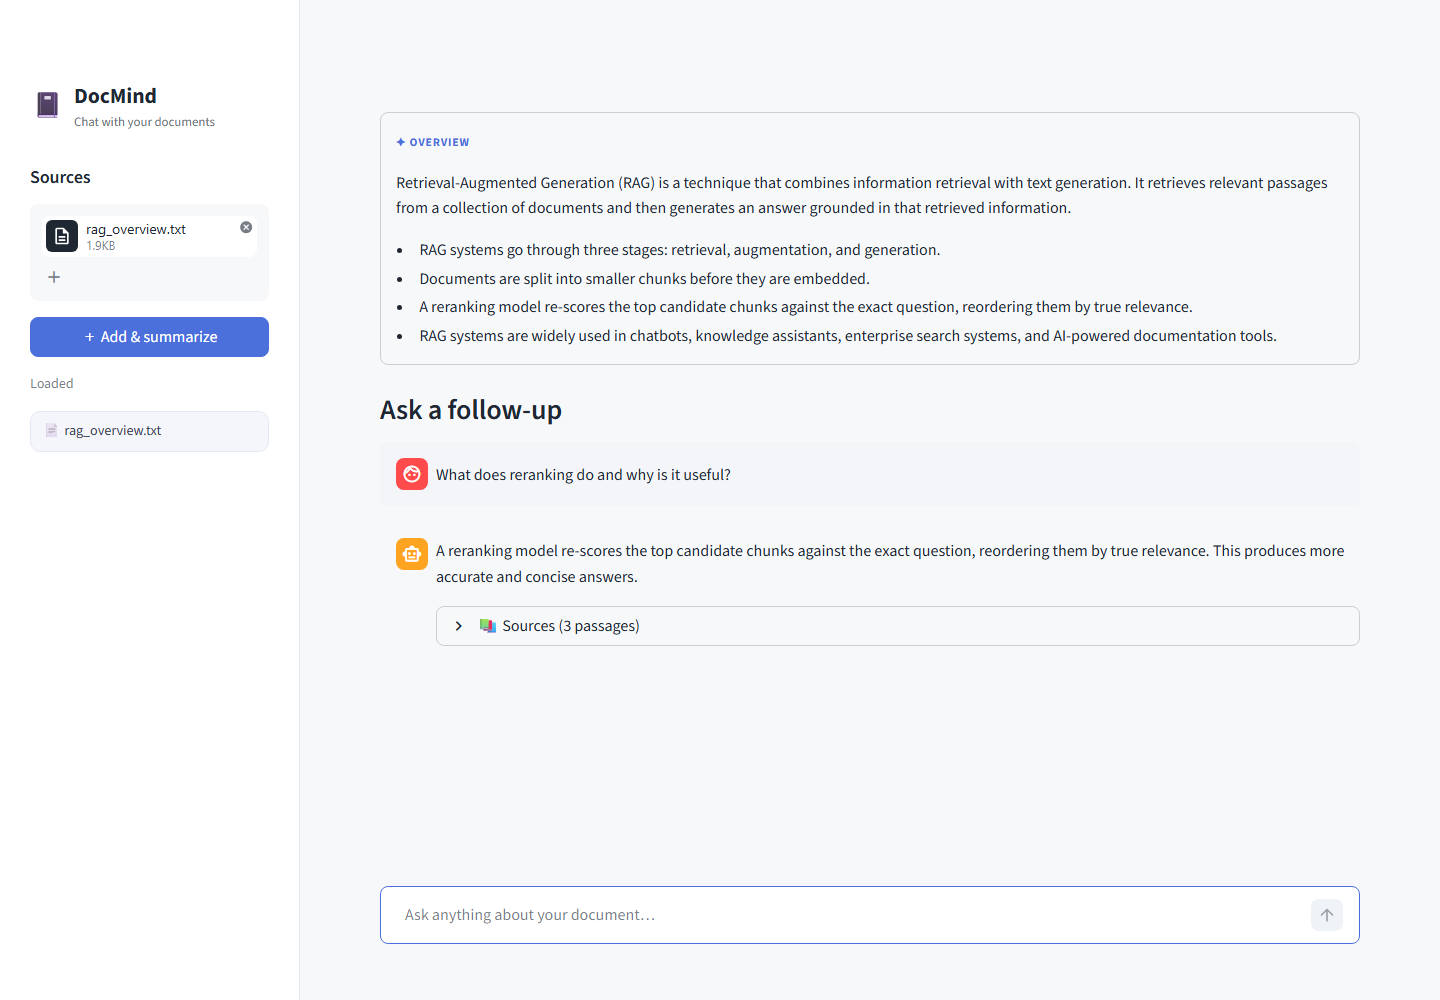
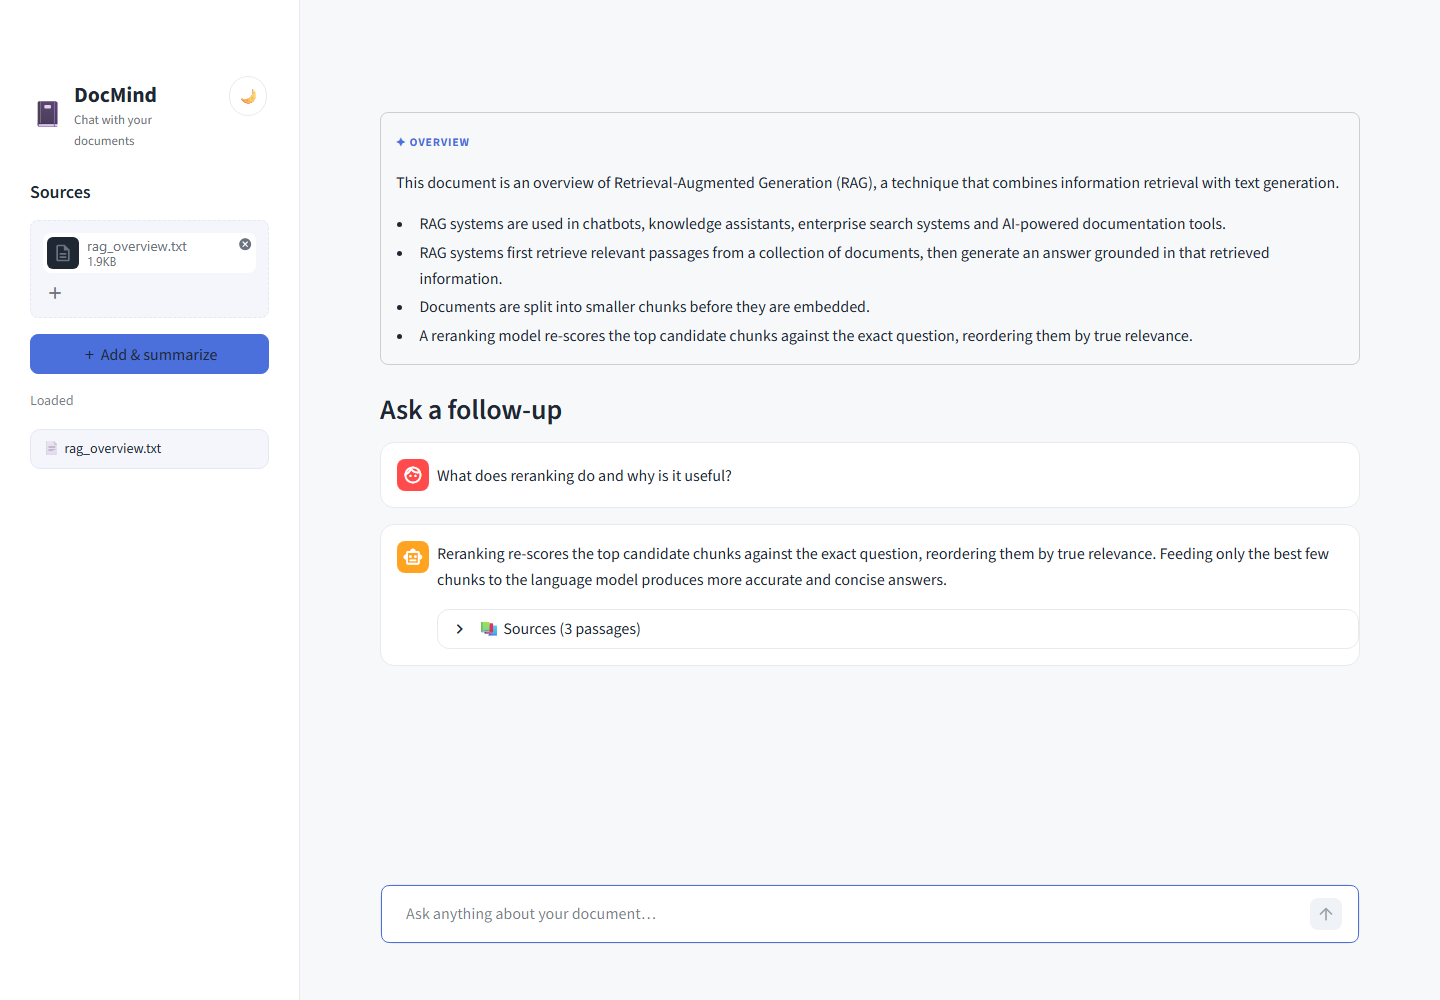
Week 7: add minimalist light/dark mode toggle

diff --git a/week7_SambhavaJain/app.py b/week7_SambhavaJain/app.py
@@ -23,53 +23,93 @@ st.set_page_config(page_title="DocMind — Document Q&A", page_icon="📓", layo
 
 # --- styling -----------------------------------------------------------------
 
-CSS = """
+# Two palettes, swapped at runtime by the theme toggle. Everything downstream
+# reads from these so light/dark stay in sync from one place.
+LIGHT = {
+    "bg": "#F7F8FA", "surface": "#FFFFFF", "border": "#E8EAED",
+    "text": "#1F2733", "muted": "#6B7280", "accent": "#4B6FDB",
+    "chip_bg": "#F4F6FB", "chip_border": "#E4E8F2",
+}
+DARK = {
+    "bg": "#0F1419", "surface": "#171C24", "border": "#2A313C",
+    "text": "#E6E9EE", "muted": "#9AA4B2", "accent": "#7C97F7",
+    "chip_bg": "#1F2630", "chip_border": "#2A313C",
+}
+
+
+def build_css(dark: bool) -> str:
+    p = DARK if dark else LIGHT
+    return f"""
 <style>
 /* hide default Streamlit chrome */
-#MainMenu, footer, header[data-testid="stHeader"] {visibility: hidden;}
+#MainMenu, footer, header[data-testid="stHeader"] {{visibility: hidden;}}
 
-/* calm, paper-like canvas */
-.stApp {background: #F7F8FA;}
-section[data-testid="stSidebar"] {background: #FFFFFF; border-right: 1px solid #E8EAED;}
+/* canvas + rails */
+.stApp {{background: {p['bg']};}}
+section[data-testid="stSidebar"] {{background: {p['surface']}; border-right: 1px solid {p['border']};}}
 
 /* typography */
-html, body, [class*="css"] {font-family: "Segoe UI", "Google Sans", system-ui, sans-serif;}
-h1, h2, h3 {letter-spacing: -0.01em; color: #1F2733;}
+html, body, [class*="css"] {{font-family: "Segoe UI", "Google Sans", system-ui, sans-serif;}}
+h1, h2, h3 {{letter-spacing: -0.01em; color: {p['text']};}}
+.stApp, .stApp p, .stApp li, .stMarkdown, [data-testid="stChatMessageContent"] {{color: {p['text']};}}
+[data-testid="stCaptionContainer"], .stApp small {{color: {p['muted']} !important;}}
 
 /* brand mark */
-.brand {display:flex; align-items:center; gap:.55rem; margin:.2rem 0 1.4rem;}
-.brand .logo {font-size:1.6rem;}
-.brand .name {font-size:1.35rem; font-weight:700; color:#1F2733;}
-.brand .tag {font-size:.8rem; color:#6B7280; margin-top:-2px;}
+.brand {{display:flex; align-items:center; gap:.55rem; margin:.1rem 0 1.2rem;}}
+.brand .logo {{font-size:1.6rem;}}
+.brand .name {{font-size:1.35rem; font-weight:700; color:{p['text']};}}
+.brand .tag {{font-size:.8rem; color:{p['muted']}; margin-top:-2px;}}
 
 /* overview card — the signature element (styled bordered container) */
-div[data-testid="stVerticalBlockBorderWrapper"]:has(.eyebrow) {
-  background:#FFFFFF; border:1px solid #E8EAED !important; border-left:4px solid #4B6FDB !important;
+div[data-testid="stVerticalBlockBorderWrapper"]:has(.eyebrow) {{
+  background:{p['surface']}; border:1px solid {p['border']} !important; border-left:4px solid {p['accent']} !important;
   border-radius:16px !important; box-shadow:0 1px 3px rgba(16,24,40,.05);
-}
-.eyebrow {
+}}
+.eyebrow {{
   display:inline-flex; align-items:center; gap:.4rem; font-size:.72rem;
-  font-weight:700; letter-spacing:.08em; text-transform:uppercase; color:#4B6FDB;
-}
+  font-weight:700; letter-spacing:.08em; text-transform:uppercase; color:{p['accent']};
+}}
 
 /* source chips in the sidebar */
-.source-item {
+.source-item {{
   display:flex; align-items:center; gap:.5rem; padding:.5rem .7rem; margin-bottom:.4rem;
-  background:#F4F6FB; border:1px solid #E4E8F2; border-radius:10px; font-size:.88rem; color:#374151;
-}
+  background:{p['chip_bg']}; border:1px solid {p['chip_border']}; border-radius:10px;
+  font-size:.88rem; color:{p['text']};
+}}
 
 /* empty state */
-.empty {
-  text-align:center; color:#6B7280; padding:3.5rem 1rem;
-  border:1px dashed #D6DAE1; border-radius:16px; background:#FFFFFFAA;
-}
-.empty .big {font-size:2.4rem; margin-bottom:.4rem;}
+.empty {{
+  text-align:center; color:{p['muted']}; padding:3.5rem 1rem;
+  border:1px dashed {p['border']}; border-radius:16px; background:{p['surface']}55;
+}}
+.empty .big {{font-size:2.4rem; margin-bottom:.4rem;}}
+.empty b {{color:{p['text']};}}
 
-/* source citations under answers */
-.cite {font-size:.82rem; color:#4B5563;}
+/* chat surfaces */
+[data-testid="stChatMessage"] {{background:{p['surface']}; border:1px solid {p['border']}; border-radius:14px;}}
+div[data-testid="stExpander"] details {{background:{p['surface']}; border:1px solid {p['border']}; border-radius:12px;}}
+[data-testid="stBottom"], [data-testid="stBottomBlockContainer"] {{background:{p['bg']};}}
+div[data-testid="stChatInput"] {{background:{p['surface']}; border:1px solid {p['border']}; border-radius:14px;}}
+div[data-testid="stChatInput"] textarea {{color:{p['text']};}}
+
+/* file uploader dropzone */
+[data-testid="stFileUploaderDropzone"] {{
+  background:{p['chip_bg']}; border:1px dashed {p['chip_border']}; color:{p['text']};
+}}
+[data-testid="stFileUploaderDropzone"] * {{color:{p['muted']} !important;}}
+
+/* minimalist theme toggle button */
+.st-key-theme_toggle button {{
+  background:transparent !important; border:1px solid {p['border']} !important;
+  color:{p['text']} !important; border-radius:999px !important;
+  width:38px; height:38px; padding:0 !important; font-size:1.05rem; line-height:1;
+  box-shadow:none !important; transition:background .15s ease, border-color .15s ease;
+}}
+.st-key-theme_toggle button:hover {{
+  background:{p['chip_bg']} !important; border-color:{p['accent']} !important;
+}}
 </style>
 """
-st.markdown(CSS, unsafe_allow_html=True)
 
 
 # --- helpers -----------------------------------------------------------------
@@ -124,6 +164,10 @@ def main() -> None:
     st.session_state.setdefault("messages", [])
     st.session_state.setdefault("summary", "")
     st.session_state.setdefault("loaded_sources", [])
+    st.session_state.setdefault("dark", False)
+
+    # apply the active theme
+    st.markdown(build_css(st.session_state.dark), unsafe_allow_html=True)
 
     cfg = get_config()
     if not st.session_state.keys_ok:
@@ -131,12 +175,21 @@ def main() -> None:
 
     # ---- sidebar: sources rail ----
     with st.sidebar:
-        st.markdown(
-            '<div class="brand"><span class="logo">📓</span>'
-            '<div><div class="name">DocMind</div>'
-            '<div class="tag">Chat with your documents</div></div></div>',
-            unsafe_allow_html=True,
-        )
+        top_l, top_r = st.columns([4, 1])
+        with top_l:
+            st.markdown(
+                '<div class="brand"><span class="logo">📓</span>'
+                '<div><div class="name">DocMind</div>'
+                '<div class="tag">Chat with your documents</div></div></div>',
+                unsafe_allow_html=True,
+            )
+        with top_r:
+            icon = "☀️" if st.session_state.dark else "🌙"
+            help_txt = "Switch to light mode" if st.session_state.dark else "Switch to dark mode"
+            if st.button(icon, key="theme_toggle", help=help_txt):
+                st.session_state.dark = not st.session_state.dark
+                st.rerun()
+
         st.subheader("Sources")
         files = st.file_uploader(
             "Add PDFs or text files",

diff --git a/week7_SambhavaJain/scripts/capture_screenshots.py b/week7_SambhavaJain/scripts/capture_screenshots.py
@@ -2,7 +2,7 @@
 import os
 from playwright.sync_api import sync_playwright
 
-URL = "http://localhost:8604"
+URL = "http://localhost:8607"
 OUT = os.path.join(os.path.dirname(__file__), "..", "docs", "screenshots")
 os.makedirs(OUT, exist_ok=True)
 SAMPLE = os.path.abspath(os.path.join(os.path.dirname(__file__), "..", "sample_docs", "rag_overview.txt"))
@@ -39,6 +39,11 @@ with sync_playwright() as pw:
     page.wait_for_selector("text=passages)", timeout=180000)
     page.wait_for_timeout(2500)
     shot(page, "03_chat.png")
+
+    # toggle dark mode and capture the same populated view
+    page.get_by_role("button", name="🌙").click()
+    page.wait_for_timeout(1800)
+    shot(page, "04_dark_mode.png")
 
     browser.close()
 print("DONE")

diff --git a/week7_SambhavaJain/README.md b/week7_SambhavaJain/README.md
@@ -18,6 +18,7 @@ This implements the extras from the assignment's *"Improvements & Experiments"* 
 |---|---|
 | **Auto-summary on upload** | Adding a document instantly generates a grounded overview (summary + key topics) before you ask anything. |
 | **Chat-style follow-ups** | A conversational interface for asking follow-up questions, like NotebookLM. |
+| **Light / dark mode** | A minimalist one-tap toggle in the sidebar switches the whole app between light and dark themes. |
 | **Recursive, overlapping chunking** | Splits on paragraph → sentence → word boundaries so chunks stay coherent, with overlap so context isn't lost at the seams. |
 | **Two-stage retrieval + rerank** | Pulls `top_k` candidates by vector similarity, then reorders them with Cohere Rerank so only the *most relevant* chunks reach the model. |
 | **Grounded answers with citations** | Answers are generated from retrieved documents and cite their sources; every answer lists the passages used, with page numbers and relevance scores. |
@@ -127,6 +128,10 @@ Then, in the browser (http://localhost:8501):
 **3. Ask follow-up questions in a chat, with sources for every answer**
 
 ![Follow-up chat](docs/screenshots/03_chat.png)
+
+**4. One-tap dark mode**
+
+![Dark mode](docs/screenshots/04_dark_mode.png)
 
 *(Captured from a real run against Cohere + Pinecone — see
 `scripts/capture_screenshots.py`.)*